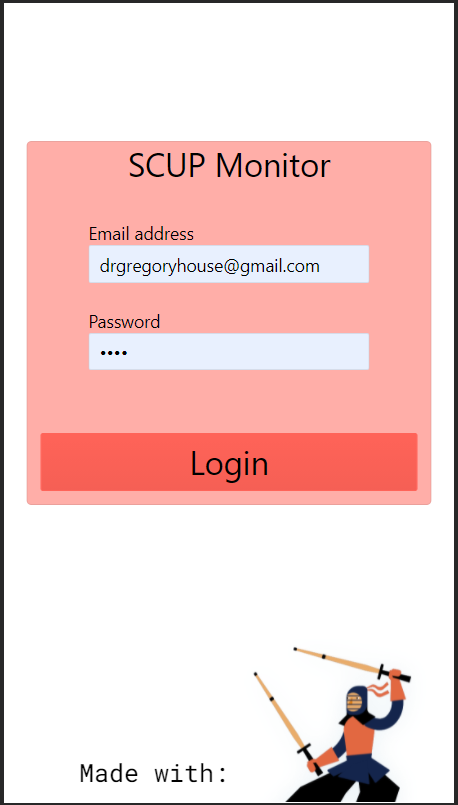
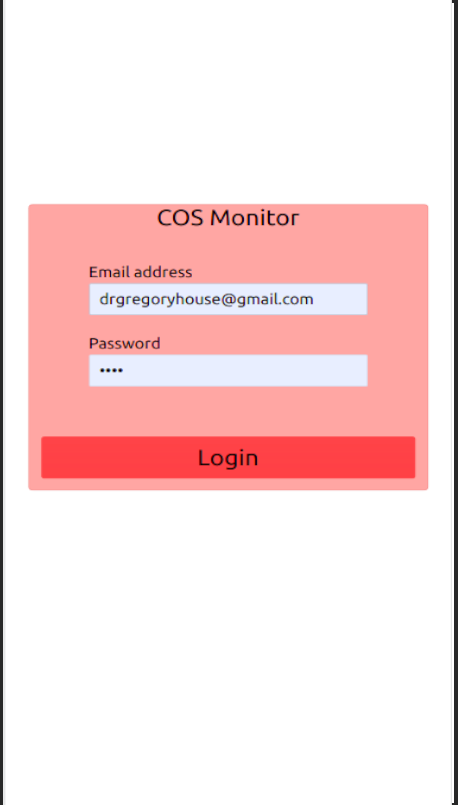
commit

Changed region(s): [[0.0, 0.0, 1.0, 1.0]]

diff --git a/README.md b/README.md
@@ -152,11 +152,11 @@ If everything worked correctly we should see the following.
 
 Inside the code folder, check in detail the scripts that the machine will run to do all the deployment, the deployment will run on EC2 as an Apache server.
 
-[Code/scripts](https://github.com/altaga/../../../WebPage/scripts)
+[WebPage/scripts](https://github.com/altaga/COS/tree/main/WebPage/scripts)
 
 In turn, the details of the deployment are defined in the file.
 
-[Code/appspec.yml](https://github.com/altaga/../../../WebPage/appspec.yml)
+[WebPage/appspec.yml](https://github.com/altaga/COS/blob/main/WebPage/appspec.yml)
 
 Since everything worked correctly we should see that the pipeline is like this.
 
@@ -165,27 +165,17 @@ Since everything worked correctly we should see that the pipeline is like this.
 ## Check Deployment:
 
 CarrierIP:
-[155.146.24.214](http://155.146.24.214)
+[155.146.81.80](http://155.146.81.80)
 
 Now we can check that our application is correctly deployed when entering a device with 5G thanks to the NOVA platform.
 
-<img src="./Images/Cloud/scupdeploy.png">
+<img src="./Images/Cloud/cosdeploy.png">
 
 Here we can see how the page is not accessible if we are not connected to a Verizon 5G zone, in this case the pc is connected to a normal local internet.
 
-<img src="./Images/Cloud/scupdeployfail.png">
+<img src="./Images/Cloud/cosdeployfail.png">
 
 # App UI:
-
-The tests were being carried out on a cell phone.
-
-[Samsung Galaxy S20+ 5G (SM-G986U)](https://www.samsung.com/us/business/products/mobile/phones/galaxy-s/galaxy-s20-plus-5g-512gb-unlocked-sm-g986uzkexaa/)
-
-With a speed of 1246Mbps
-
-<img src="./Images/Cloud/speed.png" width="33%">
-
-The app for the test will be reviewed only the mobile version since it is the access we have from NOVA. Although the app is a PWA so it can work on a desktop connected to a Wavelength zone too if you want to try it.
 
 ## **Login Screen**:
 
@@ -195,12 +185,6 @@ Login Credentials:
 
     Email:drgregoryhouse@gmail.com
     Password:toor
-
-**Desktop**:
-
-<img src="./Images/desktop/login-desk.png">
-
-**Mobile**:
 
 <img src="./Images/mobile/login-mob.png" width="32%">
 
@@ -224,20 +208,6 @@ The data received by the oxygen saturation sensor are:
 
 <img src="./Images/sat.png">
 
-Temperature:
-
-This sensor takes the temperature of the patient's hand.
-
-<img src="https://i.stack.imgur.com/HK7op.gif" width="1000" />
-
-To calculate the real temperature of the body, a multivariable linear regression model was performed to obtain an equation that would relate the temperature of the back of the hand and the ambient temperature, to obtain the real internal temperature of the body.
-
-<img src="https://i.ibb.co/Rgm108g/image.png" width="1000">
-
-The data received by the platform is the calculated core body temperature.
-
-<img src="./Images/temp.png">
-
 Tab Explorer:
 
 This section helps us to navigate between the 5 tabs that the monitor consists of.
@@ -250,11 +220,7 @@ In this section we can see the patient's data, in addition to having a convenien
 
 <img src="./Images/data.png">
 
-**Desktop**:
-
-<img src="./Images/desktop/monitor-desk.png">
-
-**Mobile**:
+**Monitor Tab**:
 
 <img src="./Images/mobile/monitor-mob.png" width="32%"><img src="./Images/mobile/monitor2-mob.png" width="32%"><img src="./Images/mobile/monitor3-mob.png" width="32%">
 
@@ -262,23 +228,11 @@ In this section we can see the patient's data, in addition to having a convenien
 
 In the summary we can see a summary of the general data of the patient and manipulate them as the doctor sees fit, all these data will be permanently modified once the submit button is clicked.
 
-**Desktop**:
-
-<img src="./Images/desktop/summary-desk.png">
-
-**Mobile**:
-
 <img src="./Images/mobile/summary-mob.png" width="32%">
 
 ## **Report**: 
 
 In this section the doctor will be able to fill in the data obtained during the consultation, the vital signs data are filled in automatically while the data is received. 
-
-**Desktop**:
-
-<img src="./Images/desktop/report-desk.png">
-
-**Mobile**:
 
 <img src="./Images/mobile/report-mob.png" width="32%">
 
@@ -286,35 +240,17 @@ In this section the doctor will be able to fill in the data obtained during the 
 
 All the data that cannot be added through the report can be filled in this section, to be able to add tables, images or any type of additional data that is required.
 
-**Desktop**:
-
-<img src="./Images/desktop/notes-desk.png">
-
-**Mobile**:
-
 <img src="./Images/mobile/editor-mob.png" width="32%">
 
 ## **Past Reports**:
 
 In order to review the previous reports of any patient, once you select the patient, the dates of the previous reports will automatically appear so that you can display them.
 
-**Desktop**:
-
-<img src="./Images/desktop/pastreport-desk.png">
-
-**Mobile**:
-
 <img src="./Images/mobile/pastreport-mob.png" width="32%">
 
 ## **ECG Details**:
 
 In the case of the ECG details, we will have to be receiving ECG data (you can activate the simulator data), once we receive at least 10 - 15 seconds of data, the ECG symbol will turn from gray to red, this means that Once the pressures are done, we will send the data to an ECG analysis API to obtain relevant data for a doctor or physician/cardiologist.
-
-**Desktop**:
-
-<img src="./Images/desktop/ecg-desk.png">
-
-**Mobile**:
 
 <img src="./Images/mobile/ecg-mob.png" width="32%">
 
@@ -323,12 +259,6 @@ In the case of the ECG details, we will have to be receiving ECG data (you can a
 This tab has the function of displaying the stored data of the patients in their consultations, which is downloaded from a database that is updated as the patient has consultations.
 
 To display the data we have to select the patient and then move on the calendar to review the data of the day that we need to display.
-
-**Desktop**:
-
-<img src="./Images/desktop/historical-desk.png">
-
-**Mobile**:
 
 <img src="./Images/mobile/historical1-mob.png" width="32%"><img src="./Images/mobile/historical-mob.png" width="32%">
 
@@ -340,7 +270,7 @@ This tab has the function of simulating the data in real time of a patient durin
 
 To Test this application enter here first!:
 
-Pending LINK!
+[155.146.81.80](http://155.146.81.80)
 
 With these login credentials:
 
@@ -352,46 +282,26 @@ With these login credentials:
 You can follow the next video to use the application:
 
 Video: Click on the image
-[![DEMO](./Images/click-here-button.png)](https://youtu.be/hMcxbMPezFI)
+[![DEMO](./Images/click-here-button.png)](https://youtu.be/QIH5dQ6RyjY)
 
 Or the following Instructions:
 
 To test the simulator, we must log in to the page first:
 
-<img src="https://i.ibb.co/F6jrfcq/1.png">
+<img src="./Images/Testing/Screenshot_20211213-113657_Gallery.jpg" height="500px">
 
 Then, we will select one of the patients, in this case Victor Altamirano. We can see that no data appears yet.
 
-<img src="https://i.ibb.co/ZxRvYpK/2.png">
+<img src="./Images/Testing/Screenshot_20211213-113728_Gallery.jpg" height="500px">
 
 Next, we go to the simulator tab. Select the patient we want to simulate and click on the buttons on the right, this will simulate one of the sensors.
 
-<img src="https://i.ibb.co/kBRzXhS/3.png">
+<img src="./Images/Testing/Screenshot_20211213-113817_Gallery.jpg" height="500px">
 
-We will activate the 3 sensors to show how they arrive at the platform at the same time.
+We will activate the 2 sensors to show how they arrive at the platform at the same time.
 
-<img src="https://i.ibb.co/ZhJgdwd/4.png">
+<img src="./Images/Testing/Screenshot_20211213-113829_Gallery.jpg" height="500px">
 
 To see this go back to the monitor tab.
 
-<img src="https://i.ibb.co/1LfnjyF/5.png">
-
-Then deactivate 2 of them to show that now only the temperature arrives!
-
-<img src="https://i.ibb.co/k6Qsgcm/7.png">
-
-Only Temp arrives!
-
-<img src="https://i.ibb.co/pzqPSjR/8.png">
-
-You can now check and play with various combinations of this.
-
-**Desktop**:
-
-<img src="./Images/desktop/simul-desk.png">
-
-**Mobile**:
-
-<img src="./Images/mobile/simulator-mob.png" width="32%">
-
-
+<img src="./Images/Testing/Screenshot_20211213-113843_Gallery.jpg" height="500px">
